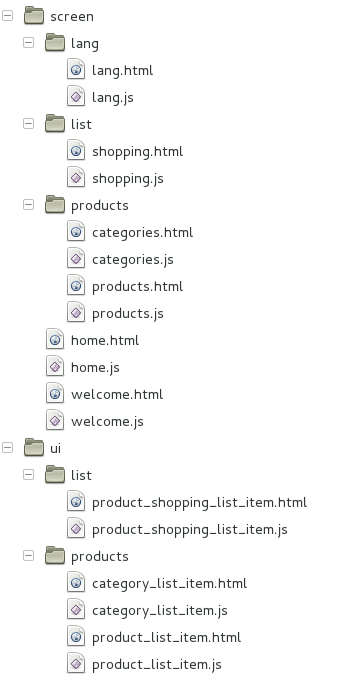
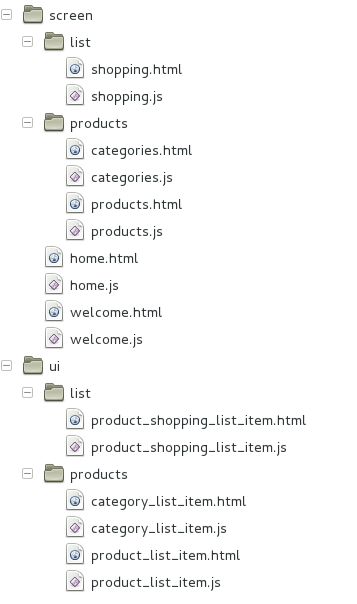
---

diff --git a/docs/es/README.md b/docs/es/README.md
@@ -387,7 +387,7 @@ self.create = function () {
 ```
 Observe como el método **goto** de Iris permite navegar al Hash-URL especificado y que, para capturar el evento *click* del botón, hemos utiliado el método **get** del componente de Iris que recibe el valor de su atributo *data-id*. Iris buscará un elemento en el DOM del componente con ese *data-id* y lo devolverá como un objeto de JQuery.
 
-##<a name="showing_some_screens"></a>##Mostrando varios screens
+##<a name="showing_some_screens"></a>Mostrando varios screens
 
 En este apartado vamos a crear un tercer Screen llamado Help.
 
@@ -2258,7 +2258,6 @@ iris.screen(
             
             function _createScreens() {
                 self.screen("screens", "#home", "shopping/screen/home.js");
-                self.screen("screens", "#lang", "shopping/screen/lang/lang.js");
                 self.screen("screens", "#categories", "shopping/screen/products/categories.js");
                 self.screen("screens", "#products", "shopping/screen/products/products.js");            
                 self.screen("screens", "#shopping", "shopping/screen/list/shopping.js");
@@ -2923,6 +2922,285 @@ El fichero de productos para una categoría cualquiera, por ejemplo *category_2.
 La explicación de estos ficheros es similar a la que realizamos para el *UI* *category_list_item*.
 
 ##<a name="step_by_step_shopping"></a>*Screen* Shopping
+
+El <a href="#shopping_img">*Screen* *Shopping*</a> permite permite gestionar la cesta de la compra marcando aquellos productos que se han comprado. 
+
+Los ficheros de este *Screen* son:
+
+En *shopping.js*:
+
+```js
+iris.screen(
+    function (self) {
+        
+        self.create = function () {
+            iris.translations("es_ES", {                
+                SHOPPING_LIST: {
+                    EMPTY: "La cesta está vacía.",
+                    REFRESH: "Actualizar",
+                    REMOVE_ALL: "Borrar todos",
+                    CHECK_ALL: "Marcar todos",
+                    UNCHECK_ALL: "Desmarcar todos",
+                    INVERT_ALL: "Invertir",
+                    REMOVE_PURCHASED: "Borrar marcados",
+                    ORDER: "Orden",
+                    PRODUCT: "Producto",
+                    ACTION: "Acción",
+                    BUY: "Cambiar estado",
+                    REMOVE: "Borrar"
+                }
+            });
+            
+            iris.translations("en_US", {                
+                SHOPPING_LIST: {
+                    EMPTY: "The Shopping list is empty.",
+                    REFRESH: "Refresh",
+                    REMOVE_ALL: "Remove All",
+                    CHECK_ALL: "Check All",
+                    UNCHECK_ALL: "Uncheck All",
+                    INVERT_ALL: "Invert checks",
+                    REMOVE_PURCHASED: "Remove purchased",
+                    ORDER: "Order",
+                    PRODUCT: "Product",
+                    ACTION: "Action",
+                    BUY: "Change state",
+                    REMOVE: "Remove"
+                }
+            });
+            
+            self.tmpl("shopping/screen/list/shopping.html");            
+            _asignEvents();
+        };
+                
+        self.awake = function (params) {
+            _inflate();
+        };
+        
+        function _asignEvents() {
+            iris.on(model.event.PRODUCTS.REMOVE, _changeVisibilityShoppingTable);
+            iris.on(model.event.SHOPPING.CHANGE_STATE, _changeStateButtons);            
+            
+            self.get("btn_refresh").on("click", function () {
+                _inflate();
+            }
+            );
+                
+            self.get("btn_remove_all").on("click", function () {
+                iris.notify(model.event.SHOPPING.REMOVE_ALL);
+                _inflate();
+            }
+            );
+                
+            self.get("btn_check_all").on("click", function () {
+                iris.notify(model.event.SHOPPING.CHECK_ALL);
+                _inflate();
+            }
+            );
+                
+            self.get("btn_uncheck_all").on("click", function () {
+                iris.notify(model.event.SHOPPING.UNCHECK_ALL);
+                _inflate();
+            }
+            );
+                
+            self.get("btn_invert_check").on("click", function () {
+                iris.notify(model.event.SHOPPING.INVERT_CHECK);
+                _inflate();
+            }
+            );
+                
+            self.get("btn_remove_checked").on("click", function () {
+                iris.notify(model.event.SHOPPING.REMOVE_CHECKED);
+                _inflate();
+            }
+            );
+             
+        }
+        
+        function _inflate() {
+            self.destroyUIs("shoppingList_products");
+            _destroyShoppingTable();
+            _loadShoppingProducts();
+            _createShoppingTable();
+            _changeVisibilityShoppingTable();
+        }
+                        
+        function _loadShoppingProducts() {
+            var products = model.shoppingList.getSortedShoppingProducts();
+            if (products.length > 0) {                
+                $.each(products,
+                    function(index, product) {
+                        var ui = self.ui("shoppingList_products", "shopping/ui/list/product_shopping_list_item.js", {
+                            "product": product
+                        });
+                        
+                        ui.get("remove").on("click",
+                            function () {
+                                var idProduct = ui.setting("product").idProduct;
+                                var table = self.get("shopping_table");
+                                var row = $(this).closest("tr").get(0);
+                                table.fnDeleteRow(table.fnGetPosition(row));
+                                self.destroyUI(ui);
+                                iris.notify(model.event.PRODUCTS.REMOVE, idProduct);
+                            }
+                            );
+                                
+                        ui.get("buy").on("click",
+                            function () {
+                                var idProduct = ui.setting("product").idProduct;
+                                ui.get("order").toggleClass("purchased");
+                                ui.get("nameProduct").toggleClass("purchased");
+                                ui.get("icon-shopping-cart").toggleClass("icon-shopping-cart icon-shopping-cart-remove");
+                                iris.notify(model.event.SHOPPING.CHANGE_STATE, idProduct);                            
+                            }
+                            );
+                        if (product.purchased === true) {
+                            ui.get("order").addClass("purchased");
+                            ui.get("nameProduct").addClass("purchased");
+                            ui.get("icon-shopping-cart").removeClass("icon-shopping-cart").addClass("icon-shopping-cart-remove");
+                        }
+                    }
+                    );
+            }
+        }
+        
+        function _destroyShoppingTable() {
+            var table = self.get("shopping_table");
+            if (table.hasOwnProperty("fnClearTable")) {
+                table.fnClearTable();
+                table.fnDestroy();
+            }
+        }
+        
+        function _createShoppingTable() {
+            var table = self.get("shopping_table");            
+            table.dataTable(
+            {
+                "bPaginate": true,
+                "bInfo" : false,
+                "bAutoWidth": false,
+                "oLanguage": {
+                    "sSearch": iris.translate("JQUERY.DATATABLES.SEARCH") + ":",
+                    "sZeroRecords": iris.translate("SHOPPING_LIST.EMPTY"),
+                    "sLengthMenu": iris.translate("JQUERY.DATATABLES.SHOW"),
+                    "oPaginate": {
+                        "sNext": iris.translate("JQUERY.DATATABLES.NEXT"),
+                        "sPrevious": iris.translate("JQUERY.DATATABLES.PREVIOUS")
+                    }
+                },
+                "aoColumnDefs": [
+                {
+                    "bSortable": false, 
+                    "aTargets": [ 2 ]
+                },
+                {
+                    "sType": "html" , 
+                    "aTargets": [0]
+                }
+                ],
+                "aaSorting": []
+            }   
+            );
+        }
+        
+        function _changeVisibilityShoppingTable() {
+            var products = model.shoppingList.getSortedShoppingProducts();
+            if (products.length > 0) {
+                self.get("div_shopping").show();
+                self.get("msg").hide();
+                _changeStateButtons();
+            } else {
+                self.get("div_shopping").hide();
+                self.get("msg").show();
+            }
+        }
+        
+        function _changeStateButtons() {            
+            self.get("btn_check_all").toggleClass("disabled", !model.shoppingList.hasNoPurchasedProducts());
+            self.get("btn_uncheck_all").toggleClass("disabled", !model.shoppingList.hasPurchasedProducts());
+            self.get("btn_remove_checked").toggleClass("disabled", !model.shoppingList.hasPurchasedProducts());            
+        }
+    
+        self.destroy = function () {
+            iris.off(model.event.PRODUCTS.REMOVE, _changeVisibilityShoppingTable);
+            iris.off(model.event.SHOPPING.CHANGE_STATE, _changeStateButtons);                
+        };
+        
+    },"shopping/screen/list/shopping.js");
+```
+
+Y en *shopping.html*:
+
+```html
+<div class="container">  
+    <div data-id="msg">@@SHOPPING_LIST.EMPTY@@</div>
+    <div data-id="div_shopping">
+        <div class="control-group">  
+            <form class="well">
+                <button type="button" class="btn" data-id="btn_refresh"><i class="icon-refresh"></i>@@SHOPPING_LIST.REFRESH@@</button>
+                <button type="button" class="btn btn-danger" data-id="btn_remove_all"><i class="icon-trash icon-white"></i>@@SHOPPING_LIST.REMOVE_ALL@@</button>
+                <button type="button" class="btn btn-success" data-id="btn_check_all"><i class="icon-shopping-cart icon-white"></i>@@SHOPPING_LIST.CHECK_ALL@@</button>
+                <button type="button" class="btn btn-info" data-id="btn_uncheck_all"><i class="icon-shopping-cart-remove"></i>@@SHOPPING_LIST.UNCHECK_ALL@@</button>
+                <button type="button" class="btn btn-primary" data-id="btn_invert_check"><i class="icon-shopping-cart-invert"></i>@@SHOPPING_LIST.INVERT_ALL@@</button>
+                <button type="button" class="btn btn-warning" data-id="btn_remove_checked"><i class="icon-shopping-cart-remove-checked"></i>@@SHOPPING_LIST.REMOVE_PURCHASED@@</button>
+            </form>
+        </div>
+        <table class="table table-striped table-bordered"  data-id="shopping_table">
+            <thead>
+                <tr>            
+                    <th>@@SHOPPING_LIST.ORDER@@</th>
+                    <th>@@SHOPPING_LIST.PRODUCT@@</th>
+                    <th>@@SHOPPING_LIST.ACTION@@</th>            
+                </tr>
+            </thead>
+            <tbody data-id="shoppingList_products">
+
+            </tbody>
+        </table>
+    </div>
+</div>
+```
+
+Estos son los puntos más relevantes de estos ficheros:
+
+* La función *_asignEvents* asigna la pulsación de los botones del *screen* a eventos de Iris para actuar sobre el modelo. También registra eventos de Iris lanzados desde el modelo.
+* La función *_loadShoppingProducts* carga en el *tbody* de la tabla *shopping_table* los productos de la lista de la compra. Los productos que no se hayan comprado todavía aparecen primero ordenados por su *idProduct*. Con cada producto se pueden realizar dos acciones: comprar y borrar de la lista. Este función gestiona la pulsación sobre los botones que efectúan estas acciones. Por último, esta función asigna los estilos adecuados cuando un producto ha sido comprado.
+* La función *_destroyShoppingTable* elimina la tabla de la lista de la compra.
+* La función *_createShoppingTable* determina las columnas que se van a mostrar en la tabla de la lista de la compra, el sistema de *paginación* y las columnas por las que se puede realizar ordenación.
+* La función *_changeVisibilityShoppingTable* oculta la tabla de la lista de la compra cuando no hay ningún producto.
+* La función *_changeStateButtons* habilita o deshabilita los botones del encabezado de la tabla de la lista de la compra en función de que se puedan o no pulsar.
+
+Por último el *ui* *product_shopping_list_item* contiene los productos de la lista de la compra que se van a cargar en la tabla anterior. Los ficheros utilizados son los siguientes:
+
+En *product_shopping_list_item.js*:
+
+```js
+iris.ui(function(self) {	
+    self.create = function() {
+        self.tmplMode(self.APPEND);
+        var product = self.setting("product");                
+        self.tmpl("shopping/ui/list/product_shopping_list_item.html", product);
+    };	
+}, "shopping/ui/list/product_shopping_list_item.js");
+```
+
+Y en *product_shopping_list_item.html*:
+
+```html
+<tr>  	
+    <td>
+        <span data-id="order">##order##</span>
+    </td>
+    <td>
+        <span data-id="nameProduct">##nameProduct##</span>
+    </td>
+    <td>
+        <button type="button" class="btn" data-id="buy" title="@@SHOPPING_LIST.BUY@@"><i data-id="icon-shopping-cart" class="icon-shopping-cart"></i></button>
+        <button type="button" class="btn" data-id="remove" title="@@SHOPPING_LIST.REMOVE@@"><i class="icon-trash"></i></button>		
+    </td>
+</tr>
+```
+
 ##<a name="step_by_step_grunt"></a>Automatizando procesos con *Grunt*
 *[Grunt](http://gruntjs.com/)* es ...
 
